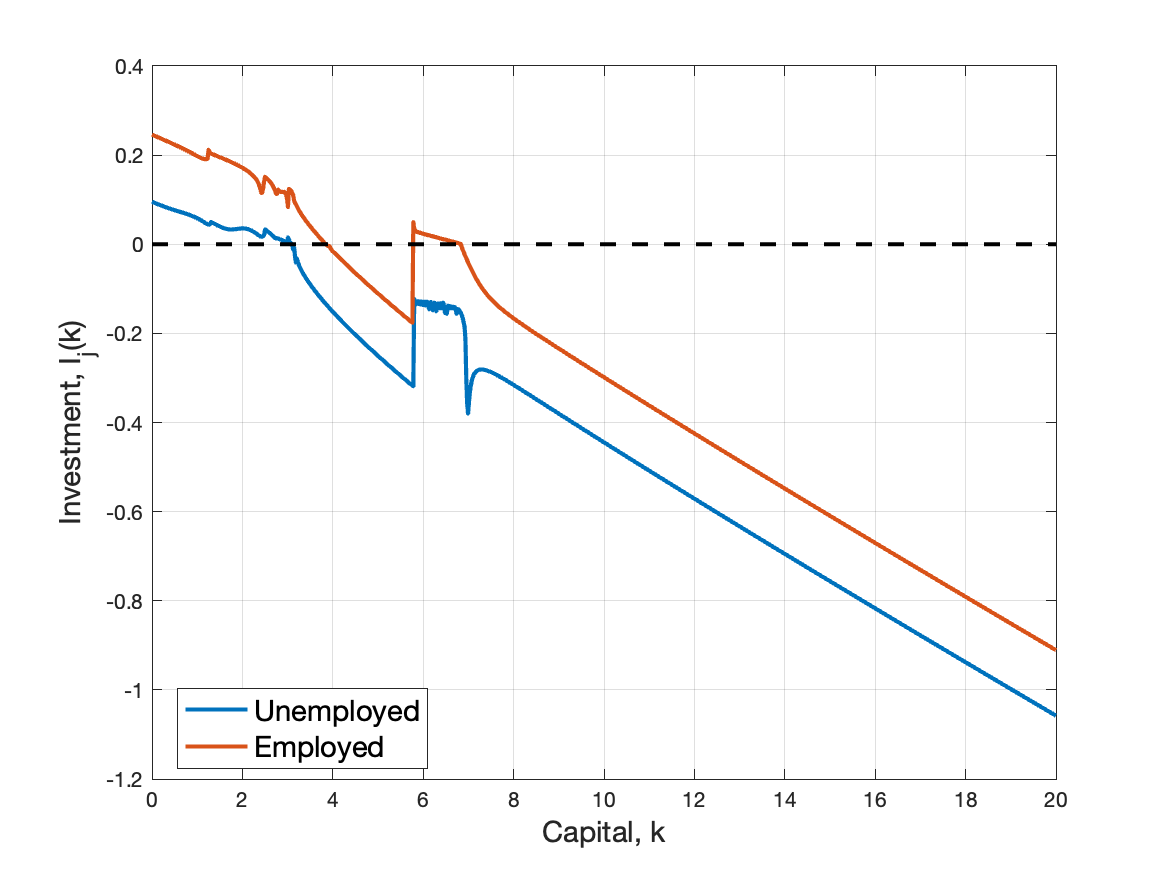
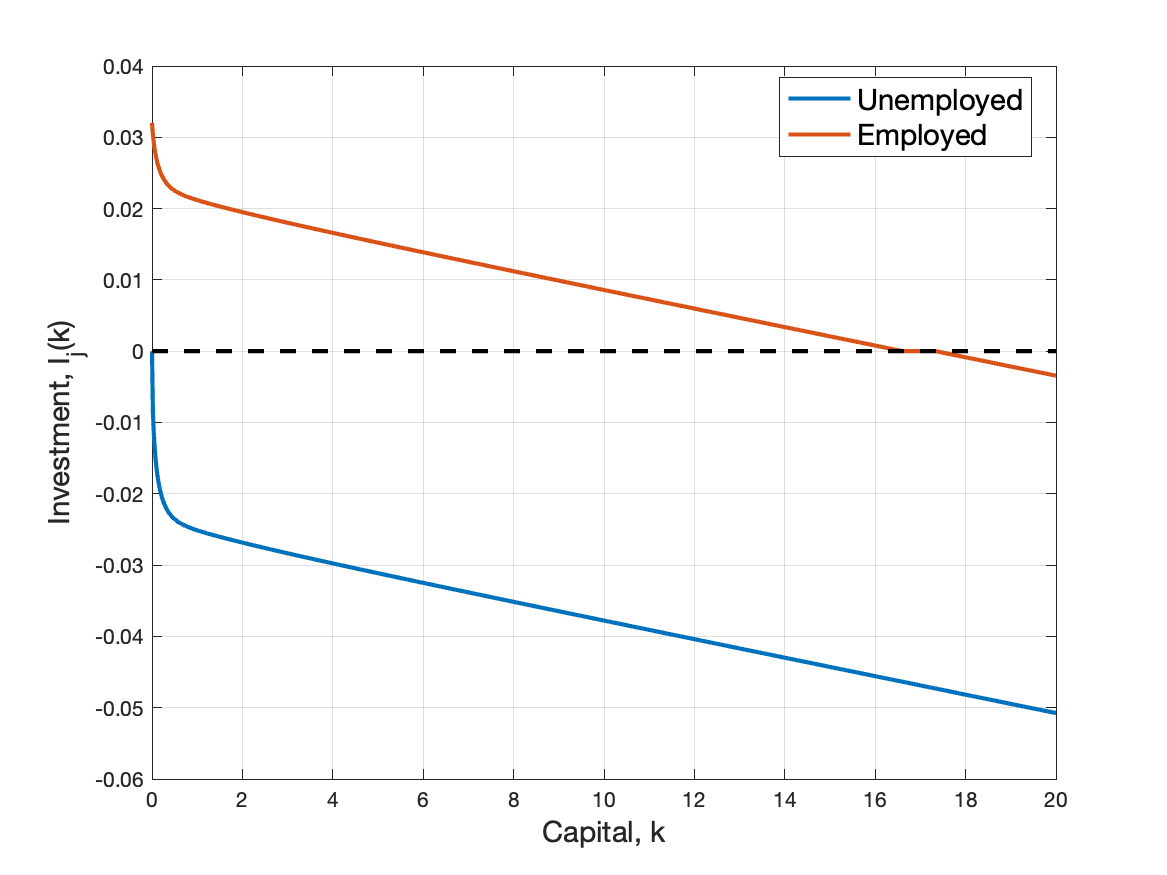
Final solution to Pset5

diff --git a/ProblemSetSolutions/PS5/GE/main_GE.m b/ProblemSetSolutions/PS5/GE/main_GE.m
@@ -1,7 +1,7 @@
 %%%%%%%%%%%%%%%%%%%%%%%%%%%%%%%%%%%%%%%%%%%%%%%%%%%%%%%%%%%%%%%%%%%%%%%%%
 % MATLAB Code: main_GE
 % 
-% Author: Kiyea Jin
+% Author: Muhammad (Modifies Kiyea's code)
 % Date: Nov 16, 2024
 %
 % Description:
@@ -30,8 +30,8 @@ close all;
 clc;
 
 %% 0. Add the path of SparseEcon folder
-
-addpath(genpath('../SparseEcon/lib'));
+% first set current path to GitHub folder
+addpath(genpath('/Users/muhammadbashir/GitHub/MuhammadCourses/SparseEcon/lib'));
 % addpath(genpath('SparseEcon/lib'));
 
 %% 1. DEFINE PARAMETERS
@@ -66,7 +66,7 @@ VARIABLE INPUTS:
 
 G = setup_grid(p.l, 0, p.kmin, p.kmax, 'NamedDims', {1}, 'Names', {'k'});
 
-% Notes:  G.a is the grid points. G.J is the number of grid points.
+% Notes:  G.k is the grid points. G.J is the number of grid points.
 
 %% NEWTON'S METHOD
 
@@ -74,10 +74,10 @@ G = setup_grid(p.l, 0, p.kmin, p.kmax, 'NamedDims', {1}, 'Names', {'k'});
 r0 = p.r;
 
 %% SOLVE STATIONARY EQUILIBRIUM
-K0 = 15; L0 = 1.2; %p.L;   % equally weight all observations. Here in first iteration I equally weight all observations i.,e every household supplies one unit inelastic labor.
-; if exist('ss', 'var'), K0 = ss.K; L0 = ss.L; end; X0 = [K0, L0]; J0 = [];
+K0 = 5; L0 = 1; %p.L;   % equally weight all observations. Here in first iteration I equally weight all observations i.,e every household supplies one unit inelastic labor.
+ if exist('ss', 'var'), K0 = ss.K; L0 = ss.L; end; X0 = K0; J0 = [];
 % K0 = 10; if exist('ss', 'var'), K0 = ss.K; end; X0 = K0; J0 = [];       % because labor supply is inelastic
-
+    G.L = 0.5*p.zz(1)+0.5*p.zz(2);      % This assumes that the labor supply is inelastic and then calculates stationary equilibrium
     % % Get better guess for value function:
     [diff,S, ss,G] = stationary(X0, G, p);
     
@@ -145,3 +145,91 @@ xlim([p.kmin p.kmax])
 legend('Unemployed', 'Employed', 'No Shortsell Constraint', 'Location', 'best', 'FontSize', 14)
 % save figure
 saveas(gcf, fullfile('..', 'Output', ['GE_wealth_distribution.png']));
+
+
+
+%% 7. Transition Dynamics
+% In this section, we analyze the impulse response of the economy to a negative aggregate
+% productivity shock that mean-reverts over time. This shock is modeled as an “MIT” shock,
+% where total factor productivity (TFP) evolves according to a deterministic Ornstein-Uhlenbeck
+% process:
+% dAt = ν(Ass
+% − At)dt,
+% where νcontrols the speed of mean reversion, and Ass is the steady-state level of productivity.
+% We assume ν = 0.2. The economy experiences a negative productivity shock, reducing TFP
+% by 3%. Over time, TFP gradually converges back to Ass, reflecting the mean-reversion
+% dynamics. Agents are assumed to have perfect foresight regarding the evolution of this
+% aggregate shock.
+% 7. Plot the TFP sequence over time.
+% 8. Solve for the transition paths of rt, wt, and Kt. Plot these paths and discuss their
+% economic implications in response to negative productivity shock.
+
+%% Plot TFP sequence over time
+%% Define TFP Process Parameters
+nu = 0.2;           % Speed of mean reversion
+A_ss = p.A;     % Steady state TFP
+shock = -0.03;      % 3% negative shock
+T = linspace(0, 50,50);  % Time grid from 0 to 50
+A_t = zeros(length(T),1);
+A_t(1) = .97*A_ss;  % Apply initial shock
+
+% Solve for TFP path
+for t = 1:length(T)-1
+    A_t(t+1)= nu*(A_ss-A_t(t))+A_t(t);
+end 
+% Plot TFP sequence over time
+figure;
+plot(T, A_t, 'LineWidth', 2);
+xlabel('Time');
+ylabel('Total Factor Productivity A(t)');
+title('TFP Transition Dynamics');
+grid on;
+
+% since this already reverts back to orginal value by 15th time period, so we will focus only on that part of T to find dynamics of r,w,and K 
+T= T(1:20);
+
+figure;
+plot(T, A_t(1:20), 'LineWidth', 2);
+xlabel('Time');
+ylabel('Total Factor Productivity A(t)');
+title('TFP Transition Dynamics');
+grid on;
+% iterate over all of these values of A to find correspoding, K, r, and w
+% Pre-allocate arrays for transition paths
+r_t = zeros(size(T));  % Interest rate path
+w_t = zeros(size(T));  % Wage path 
+K_t = zeros(size(T));  % Capital path
+% Loop over time periods
+for t = 1:length(T)
+    p.A = A_t(t);
+    options = optimset('Display', 'off', 'UseParallel', true, 'TolX', 1e-12);
+    X = fsolve(@(x) stationary(x,G, p), X0, options);
+
+% % Rerun stationary using the equilibrium prices:
+    [diff,S, ss,G] = stationary(X, G, p);
+    r_t(t)= ss.r;
+    w_t(t)= ss.w;
+    K_t(t)= ss.K;
+end 
+
+% Plot r_t 
+% Plot transition paths
+% actually change T from 1 to 30
+% T= linspace(1,20,20);
+figure;
+subplot(3,1,1)
+plot(T, r_t, 'LineWidth', 2)
+title('Interest Rate Transition')
+ylabel('r(t)')
+
+subplot(3,1,2)
+plot(T, w_t, 'LineWidth', 2)
+title('Wage Transition')
+ylabel('w(t)')
+
+subplot(3,1,3)
+plot(T, K_t, 'LineWidth', 2)
+title('Capital Transition')
+ylabel('K(t)')
+xlabel('Time')
+

diff --git a/ProblemSetSolutions/PS4/GE/define_parameters_GE.m b/ProblemSetSolutions/PS4/GE/define_parameters_GE.m
@@ -1,88 +1,80 @@
-function p = define_parameters_GE()
+function param = define_parameters()
 
 % This function defines the parameters needed for the Huggett_GE.m script
 
 %% Economic Parameters
     
     % Relative risk aversion
-    p.gamma = 2;                            % although pset calls it sigma, I will stick with this so that it is easier to use previous code. 
+    param.gamma = 2;                            % although pset calls it sigma, I will stick with this so that it is easier to use previous code. 
 
     % Discount rate
-    p.rho = 0.05;
+    param.rho = 0.05;
     
     % depreciation rate
-    p.delta = 0.05;
+    param.delta = 0.05;
 
     % share of capital in production
-    p.alpha = 1/3;
+    param.alpha = 1/3;
 
     % Total factor productivity
-    p.A = 0.1;
-    %% WE NO LONGER ASSUME EXOGENOUS INTEREST RATE
-    % Exogenous interest rate
-    % p.r = 0.035;
-    
-    % idiosyncratic productivity process
-    p.z_u = 1;
-    p.z_e = 2;
-    p.zz = [p.z_u, p.z_e];
+    param.A = 0.1;
 
-    % Transition rates for idiosyncratic productivity process ( same for both states)
-    p.lambda_u = 1/3;
-    p.lambda_e = 1/3;
-    p.lambda = [p.lambda_u, p.lambda_e];
-    
+    % Earnings parameters:
+    param.zz  = [1 ,2];     % idiosyncratic shock(efficency units of labor)
+    param.la1 = 1/3;        % poisson rate of shock 1
+    param.la2 = 1/3;        % poisson rate of shock 2
+    param.L   = param.la1/(param.la1+param.la2) * param.zz(1) + param.la2/(param.la1+param.la2) * param.zz(2);  % average labor supply?
+
 %% Economic Functions
-    
-    % Utility funtion
-    p.u = @(c) c.^(1-p.gamma)/(1-p.gamma);
-
+    % Utility function
+    param.u     = @(c) c.^(1-param.gamma) / (1-param.gamma); 
     % Marginal utility function
-    p.mu = @(c) c.^(-p.gamma);
-
-    % FOC: mu(c)=dV -> c=inv_mu(dV)
-    p.inv_mu = @(dV) dV.^(-1/p.gamma);
+    param.u1    = @(c) c.^(-param.gamma);
+    % Inverse of marginal utility function
+    param.u1inv = @(c) c.^(-1/param.gamma);
 
     % Production function
-    p.f = @(k) p.A*k.^p.alpha;
+    param.f = @(K) param.A*K.^param.alpha*param.L.^(1-param.alpha);
 
     % marginal product of capital
-    p.fk = @(k) p.alpha*p.A*k.^(p.alpha-1);
-
-    % marginal product of labor 
-    p.fl = @(k) (1-p.alpha)*p.A*k.^p.alpha;
+    param.fK = @(K) param.alpha*param.A*K.^(param.alpha-1)*param.L.^(1-param.alpha);
 
 %% Grid Parmaters
 
-    p.kmin = 0;
-    p.kmax = 20;
+    param.kmin = 0;
+    param.kmax = 20;
+    param.min = [param.kmin];
+    param.max = [param.kmax];
 
     % The number of grid points
-    p.I = 1000;
+    param.I = 1000;
 
     % % WE NO LONGER CONSTRUCT GRID POINTS FOR INTEREST RATES
     % % Grid parameters for interest rate
-    % p.rmin = -0.05;
-    % p.rmax = 0.04;
-    % p.Ir = 20;
+    % param.rmin = -0.05;
+    % param.rmax = 0.04;
+    % param.Ir = 20;
 
-%% Tuning parameters
+%%  Tuning parameters for Value Function and Kolmogorov Forward
 
     % Step size: can be arbitrarily large in implicit method
-    p.Delta = 1000;
+    param.Delta = 1000;
 
     % The maximum number of value function iterations
-    p.maxit = 100;
+    param.maxit = 100;
 
     % Tolerance for value function iterations
-    p.tol = 10^(-6);
+    param.crit  = 1e-8;
 
+    param.Delta_KF = 1000;
+    param.maxit_KF = 100;
+    param.crit_KF  = 1e-8;
     %% TUNING PARAMETERS FOR INTEREST RATE ITERATION
     
     % The maximum number of interest rate iterations
-    p.Nr = 40;
+    param.Nr = 40;
 
     % Tolerance for interest rate iterations
-    p.tol_S = 10^(-6);
+    param.tol_S = 10^(-6);
 
 end

diff --git a/ProblemSetSolutions/PS5/GE/HJB.m b/ProblemSetSolutions/PS5/GE/HJB.m
@@ -5,18 +5,18 @@ num0 = 1e-8; % numerical 0 for upwind scheme
 
 % 3-1. Construct the forward and backward differential operator 
 % Df such that Df*V=dVf and Db such that Db*V=dVb
-    % 
-    % Df = zeros(p.I, p.I);
-    % for i = 1:p.I-1
-    %     Df(i,i) = -1/da; Df(i,i+1) = 1/da;
-    % end
-    % Df = sparse(Df);
-    % 
-    % Db = zeros(p.I, p.I);
-    % for i = 2:p.I
-    %     Db(i,i-1) = -1/da; Db(i,i) = 1/da;
-    % end
-    % Db = sparse(Db);
+    p.I = G.J;
+    Df = zeros(p.I, p.I);
+    for i = 1:p.I-1
+        Df(i,i) = -1/G.dk; Df(i,i+1) = 1/G.dk;
+    end
+    Df = sparse(Df);
+    
+    Db = zeros(p.I, p.I);
+    for i = 2:p.I
+        Db(i,i-1) = -1/G.dk; Db(i,i) = 1/G.dk;
+    end
+    Db = sparse(Db);
 
     %% DIFFERENTIAL OPERATOR + BOUNDARY CONDITIONS
 
@@ -58,31 +58,34 @@ num0 = 1e-8; % numerical 0 for upwind scheme
     % The value function of "staying put"
     
     v0 = p.u(G.income)./p.rho; 
+        % replace 0 or negative values of V with 1 
+    % v0(v0<=0) = 10;
     V = v0;
+
 
 %% 4. VALUE FUNCTION ITERATION
 
 for n=1:p.maxit
 
     %% 4-1. Compute the derivative of the value function 
-    % dVf = Df*V;
-    % dVb = Db*V;
+    dVf = Df*V;
+    dVb = Db*V;
 
     % function deriv = deriv_sparse(G, f, k, operator, name)
 
-    dVf =zeros(G.J, 2);
-    dVb =zeros(G.J, 2);
-    for j = 1:2
-        dVf(:, j) = deriv_sparse(G, V(:,j), 1, 'D1F', num2str(j));
-        dVb(:, j) = deriv_sparse(G, V(:,j), 1, 'D1B', num2str(j));
-    end
+    % dVf =zeros(G.J, 2);
+    % dVb =zeros(G.J, 2);
+    % for j = 1:2
+    %     dVf(:, j) = deriv_sparse(G, V(:,j), 1, 'D1F', num2str(j));
+    %     dVb(:, j) = deriv_sparse(G, V(:,j), 1, 'D1B', num2str(j));
+    % end
  
     %% 4-2. Boundary conditions
-    % dVb(1,:) = p.mu(zz(1,:) + r.*aa(1,:)); % a>=a_min is enforced (borrowing constraint)
-    % dVf(end,:) = p.mu(zz(end,:) + r.*aa(end,:)); % a<=a_max is enforced which helps stability of the algorithm
+    dVb(1,:) = p.mu(G.income(1,:) + r.*G.k(1,:)); % k>=k_min is enforced (borrowing constraint)
+    dVf(end,:) = p.mu(G.income(end,:) + r.*G.k(end,:)); % k<=k_max is enforced which helps stability of the algorithm
     
-    % dVf(G.k == p.kmax, :) = p.mu(G.income(G.k == p.kmax, :));
-    % dVb(G.k == p.kmin, :) = p.mu(G.income(G.k == p.kmin, :));
+    dVf(G.k == p.kmax, :) = p.mu(G.income(G.k == p.kmax, :));
+    dVb(G.k == p.kmin, :) = p.mu(G.income(G.k == p.kmin, :));
 
     I_concave = dVb > dVf; % indicator whether value function is concave (problems arise if this is not the case)
 
@@ -149,5 +152,6 @@ for n=1:p.maxit
        break
     end
 end
+if ~isreal(V), fprintf('Complex values in VFI: terminating process.'); V = NaN(1); return; end
 
 end

diff --git a/ProblemSetSolutions/PS5/GE/stationary.m b/ProblemSetSolutions/PS5/GE/stationary.m
@@ -1,8 +1,10 @@
 function [diff,S, ss,G] = stationary(x, G, p)
 
 %% Aggregates
-K = x(1);
-L = x(2);
+% K = x(1);
+K = x;
+L= G.L;
+% L = x(2);
 Y = p.A*K^p.alpha*L^(1-p.alpha);
 rk = p.alpha*Y/K;
 w = (1-p.alpha)*Y/L;
@@ -38,10 +40,11 @@ excess_capital = K - KH;
 excess_labor   = L - LH;
 % size(LH)
 
-diff = [excess_capital, excess_labor];
+%diff = %[excess_capital, excess_labor];
+diff = excess_capital;
 
 ss.V = V; ss.g = gg; ss.c = c; ss.s = s;
-ss.K = K; ss.L = L; ss.C = C; ss.S = S; ss.r = r; ss.Y = Y; ss.w = w; 
+ss.K = K;  ss.C = C; ss.S = S; ss.r = r; ss.Y = Y; ss.w = w;  % ss.L = L;
 ss.excess_supply = excess_supply; ss.excess_capital = excess_capital; ss.excess_labor = excess_labor; ss.gg = gg;
 
 end

diff --git a/ProblemSetSolutions/PS5/GE/define_parameters.m b/ProblemSetSolutions/PS5/GE/define_parameters.m
@@ -11,10 +11,10 @@ function p = define_parameters()
         p.rho = 0.05;
 
         % Depreciation rate
-        p.delta = 0.05;
+        p.delta = 0.01;
         
         % % Initial interest rate
-        p.r = 0.025;    
+        p.r = 0.4;    
         % capital share
         p.alpha = 1/3;
     
@@ -60,10 +60,10 @@ function p = define_parameters()
     %% Tuning parameters
     
         % Step size: can be arbitrarily large in implicit method
-        p.Delta = 1000;
+        p.Delta = 100;
     
         % The maximum number of value function iterations
-        p.maxit = 100;
+        p.maxit = 10;
     
         % Tolerance for value function iterations
         p.tol = 10^(-6);
